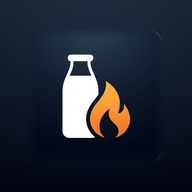
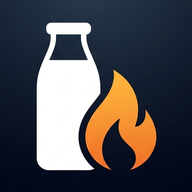
Updates

Changed region(s): [[0.1875, 0.0938, 0.8438, 0.9062], [0.5625, 0.875, 0.5938, 0.9062]]

diff --git a/sw.js b/sw.js
@@ -1,1 +1,1 @@
-if(!self.define){let e,i={};const n=(n,s)=>(n=new URL(n+".js",s).href,i[n]||new Promise(i=>{if("document"in self){const e=document.createElement("script");e.src=n,e.onload=i,document.head.appendChild(e)}else e=n,importScripts(n),i()}).then(()=>{let e=i[n];if(!e)throw new Error(`Module ${n} didn’t register its module`);return e}));self.define=(s,r)=>{const o=e||("document"in self?document.currentScript.src:"")||location.href;if(i[o])return;let f={};const t=e=>n(e,o),d={module:{uri:o},exports:f,require:t};i[o]=Promise.all(s.map(e=>d[e]||t(e))).then(e=>(r(...e),f))}}define(["./workbox-9c191d2f"],function(e){"use strict";self.skipWaiting(),e.clientsClaim(),e.precacheAndRoute([{url:"registerSW.js",revision:"3481df0bd4581ff4eb395d95e059ad42"},{url:"index.html",revision:"6fd9f43fe4457fda8cb8f4fd611851f8"},{url:"assets/index-v47SsV2w.css",revision:null},{url:"assets/index-C5NQOoqM.js",revision:null},{url:"apple-touch-icon.png",revision:"26796b3d19cc844e86234dda1e6a7970"},{url:"favicon.ico",revision:"233fb21d875bf8a95a3dd40a5424b7bd"},{url:"pwa-192x192.png",revision:"1b0057c188eb9eecbfa5f37eb1cc1a37"},{url:"pwa-512x512.png",revision:"adbe14b8afe50e674a53dd5682b04ce0"},{url:"manifest.webmanifest",revision:"ec073467e8f5e6081f5f1f4f3965cfa0"}],{}),e.cleanupOutdatedCaches(),e.registerRoute(new e.NavigationRoute(e.createHandlerBoundToURL("index.html")))});
+if(!self.define){let e,i={};const n=(n,s)=>(n=new URL(n+".js",s).href,i[n]||new Promise(i=>{if("document"in self){const e=document.createElement("script");e.src=n,e.onload=i,document.head.appendChild(e)}else e=n,importScripts(n),i()}).then(()=>{let e=i[n];if(!e)throw new Error(`Module ${n} didn’t register its module`);return e}));self.define=(s,r)=>{const f=e||("document"in self?document.currentScript.src:"")||location.href;if(i[f])return;let o={};const t=e=>n(e,f),c={module:{uri:f},exports:o,require:t};i[f]=Promise.all(s.map(e=>c[e]||t(e))).then(e=>(r(...e),o))}}define(["./workbox-9c191d2f"],function(e){"use strict";self.skipWaiting(),e.clientsClaim(),e.precacheAndRoute([{url:"registerSW.js",revision:"3481df0bd4581ff4eb395d95e059ad42"},{url:"index.html",revision:"6fd9f43fe4457fda8cb8f4fd611851f8"},{url:"assets/index-v47SsV2w.css",revision:null},{url:"assets/index-C5NQOoqM.js",revision:null},{url:"apple-touch-icon.png",revision:"28980ee1400558515fc9ec5e6080de3c"},{url:"favicon.ico",revision:"b3a5c0c90c07eacc15ac2da51ec6d121"},{url:"pwa-192x192.png",revision:"205e713355f6b2df81e28a348f89f0a4"},{url:"pwa-512x512.png",revision:"40da91bef80183f17352683565899034"},{url:"manifest.webmanifest",revision:"ec073467e8f5e6081f5f1f4f3965cfa0"}],{}),e.cleanupOutdatedCaches(),e.registerRoute(new e.NavigationRoute(e.createHandlerBoundToURL("index.html")))});
